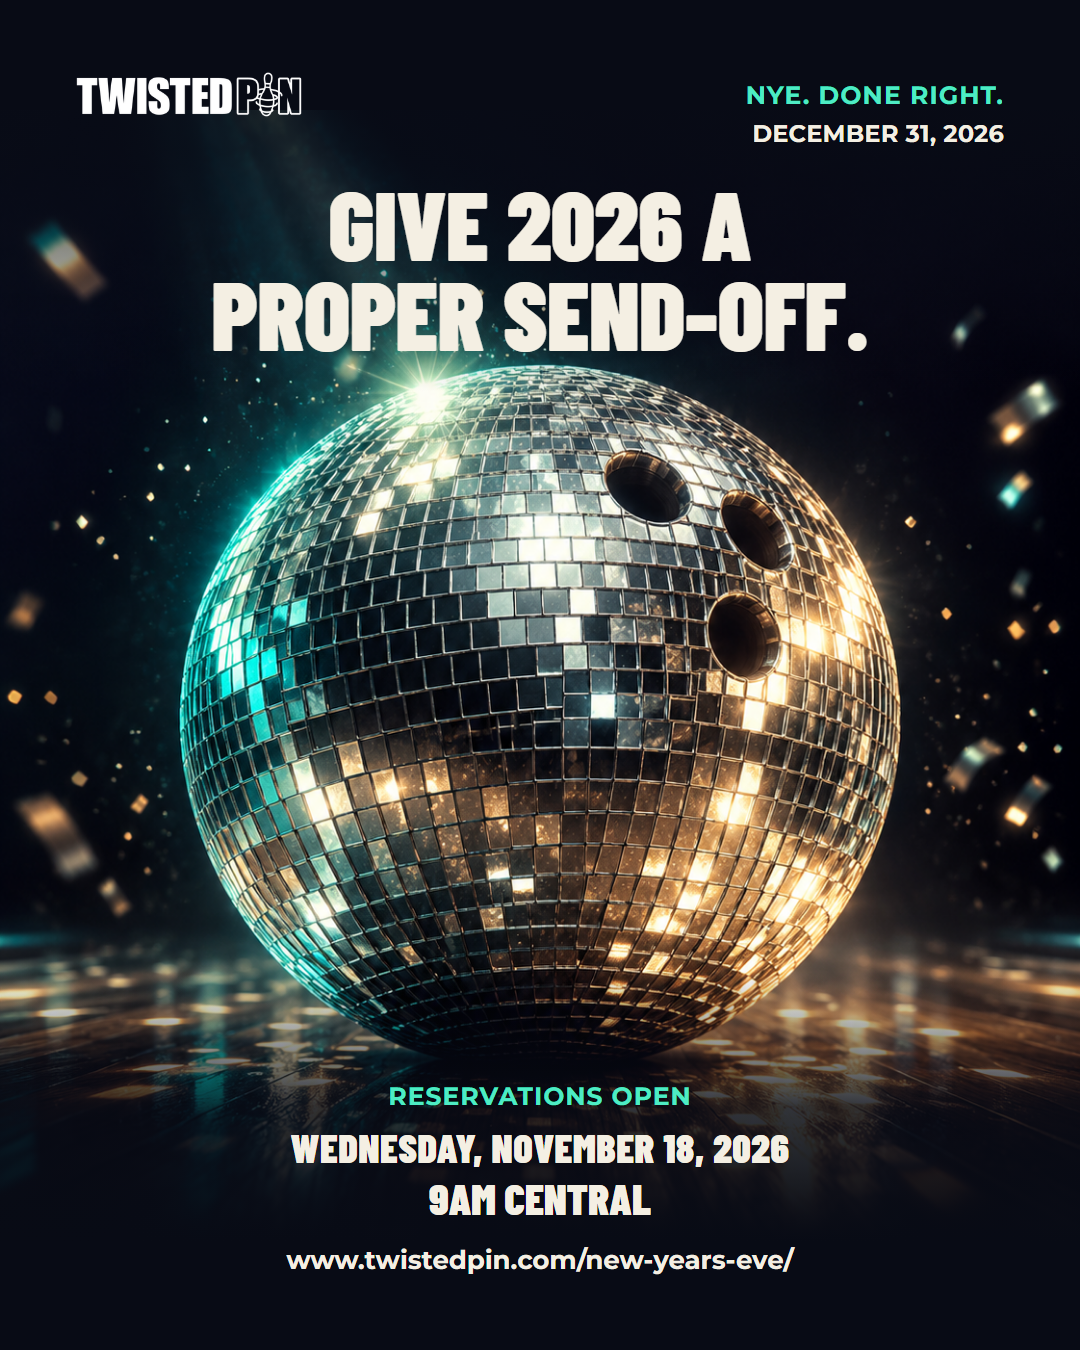
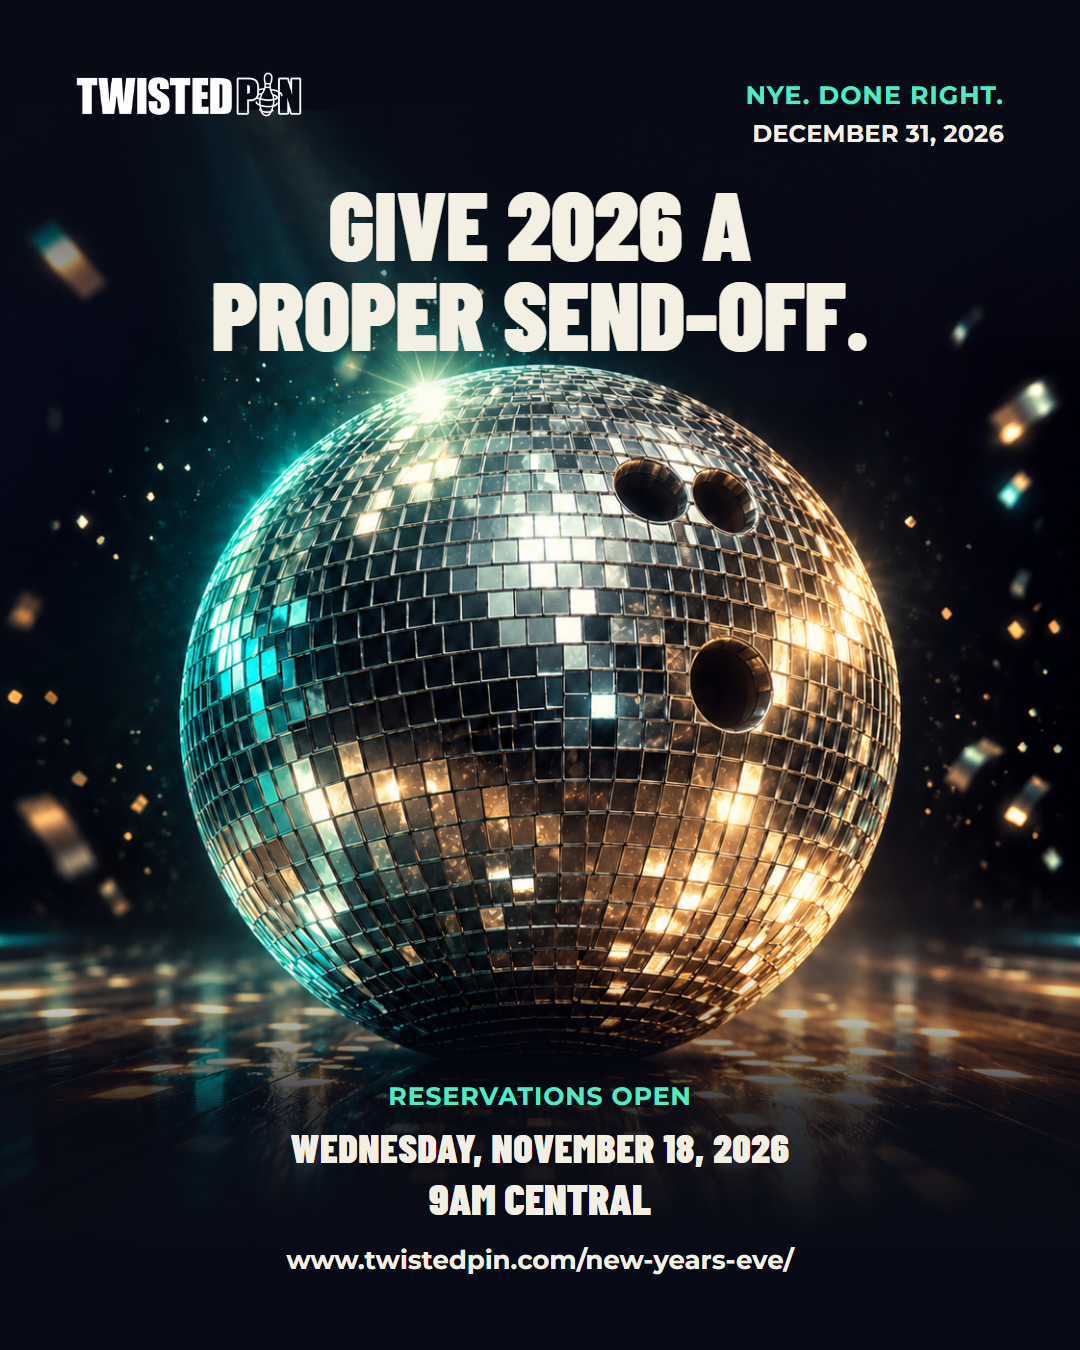
Correct NYE mirrorball grip spacing from bowling references

diff --git a/Context/marketing/holiday-drip-2026/batch-02/README.md b/Context/marketing/holiday-drip-2026/batch-02/README.md
@@ -4,6 +4,8 @@
 
 My recommended pair is the mirrored bowling ball for NYE and the festive Santa scene for Jingle. These are alternative visuals for the existing October 23 and October 26 occasions, not two additional posts. The October 28 historical-sellout reminder remains available from batch 01.
 
+**Mirrorball correction:** Jon's two bowling-ball references now guide the grip: two close finger holes with the thumb distinctly farther below. The current NYE exports use `artwork/nye-hero-v3-grip-corrected.png`. The prior hero, reference images and exact edit prompt are retained in `artwork/`; [edit provenance](artwork/nye-grip-correction.provenance.json) records the built-in imagegen call. Jingle, copy and proposed dates are unchanged.
+
 ## Review and use
 
 - [Preview/contact sheet](contact-sheet.png) and [gallery with actual copy](review.html).
@@ -21,7 +23,7 @@ The first batch is preserved. `campaign.json` records mutually exclusive visual 
 
 ## Editable source and preservation
 
-`artwork/campaign.html` and `scripts/render-holiday-drip-batch02.mjs` own final compositions, logo, text, opening/date lines and format positioning. `artwork/nye-hero-v2.png` and `artwork/jingle-hero-v2.png` are the saved original hero outputs. Their exact generation prompts, references and built-in-tool provenance are in the adjacent JSON files. Originals remain at their generated-images location too; project consumption does not depend on that location.
+`artwork/campaign.html` and `scripts/render-holiday-drip-batch02.mjs` own final compositions, logo, text, opening/date lines and format positioning. `artwork/nye-hero-v3-grip-corrected.png` and `artwork/jingle-hero-v2.png` are the current hero masters; `artwork/nye-hero-v2.png` preserves the original NYE proposal. Exact generation/edit prompts, references and built-in-tool provenance are in the adjacent JSON files. Originals remain at their generated-images location too; project consumption does not depend on that location. Files in `artwork/reference-grips/` are user-supplied geometry references, not campaign publication assets.
 
 The built-in image-generation tool was used; no external API/CLI fallback was used. It produced the hero art only. Jingle's unselected initial generation is archived in `artwork/source-history/` so its subsequent composition edit has a preserved input; it is not a publication asset. The supplied logo and existing Barlow Condensed/Montserrat/Roboto Slab font assets remain independent editable layers. The rejected September brand kit was not used.
 

diff --git a/Context/marketing/holiday-drip-2026/HANDOFF.md b/Context/marketing/holiday-drip-2026/HANDOFF.md
@@ -2,6 +2,8 @@
 
 ## Latest creative follow-up · Batch 02
 
+**Latest correction:** Jon supplied two bowling-ball photos to correct the NYE mirrorball grip. The current master is `batch-02/artwork/nye-hero-v3-grip-corrected.png`: a close finger pair and distinctly lower thumb. Current NYE feed/Story exports and previews have been rerendered, with updated hashes and preserved exact edit provenance/reference files. The older `nye-hero-v2.png` remains an archived proposal. Jingle, copy, dates and approval/publication state are unchanged. The same batch 02 Desktop folders and ZIPs carry the correction.
+
 Jon invited stronger creative judgment and new visuals, asking for an “epic” result. The recommended follow-up is [batch 02](batch-02/README.md): a cinematic mirrored bowling ball for NYE and a festive illustrated Santa scene for Jingle, each in feed/Story formats with editable typography. The first batch is preserved. These are visual alternatives for the same Oct 23/Oct 26 occasions, not extra posts. `campaign.json` carries the new copy/assets and explicit mutually exclusive choice groups; no creative selection, approval or action permission is inferred from openness to suggestions. Use the batch 02 gallery as the latest visual review.
 
 The new hero originals, exact built-in-imagegen prompts/provenance, editable layouts and four final exports are preserved in the isolated feature branch. New Desktop folders named `Drip review - batch 02` and `Holiday-drip-2026-batch-02-REVIEW.zip` include both batches; batch 01 deliveries are retained. The branch remains a local review snapshot, not a production release or a claim of social publication. [Research notes](research-notes.md) preserve the sources and distinguish general account evidence from this supplemental plan.

diff --git a/Context/history/2026-website-decisions.md b/Context/history/2026-website-decisions.md
@@ -1,3 +1,14 @@
+## 2026-10-22 - NYE mirrorball grip correction
+
+Jon supplied two bowling-ball references and requested more accurate finger/thumb
+spacing, focused on the mirrorball. Edit the NYE illustration with the built-in
+image tool: two close finger holes and a distinctly lower thumb hole, preserving
+the composition. Retain the earlier hero, the supplied reference files and exact
+edit provenance. Use the corrected sibling master in the existing feed/Story
+exports and refresh previews/manifests/Desktop deliveries. Jingle artwork and all
+copy/calendar/publication states remain unchanged. This is a visual correction,
+not scheduling or production authorization.
+
 ## 2026-10-22 - Cinematic holiday drip alternatives
 
 Jon invited creative judgment beyond the first batch and asked for an epic result.
